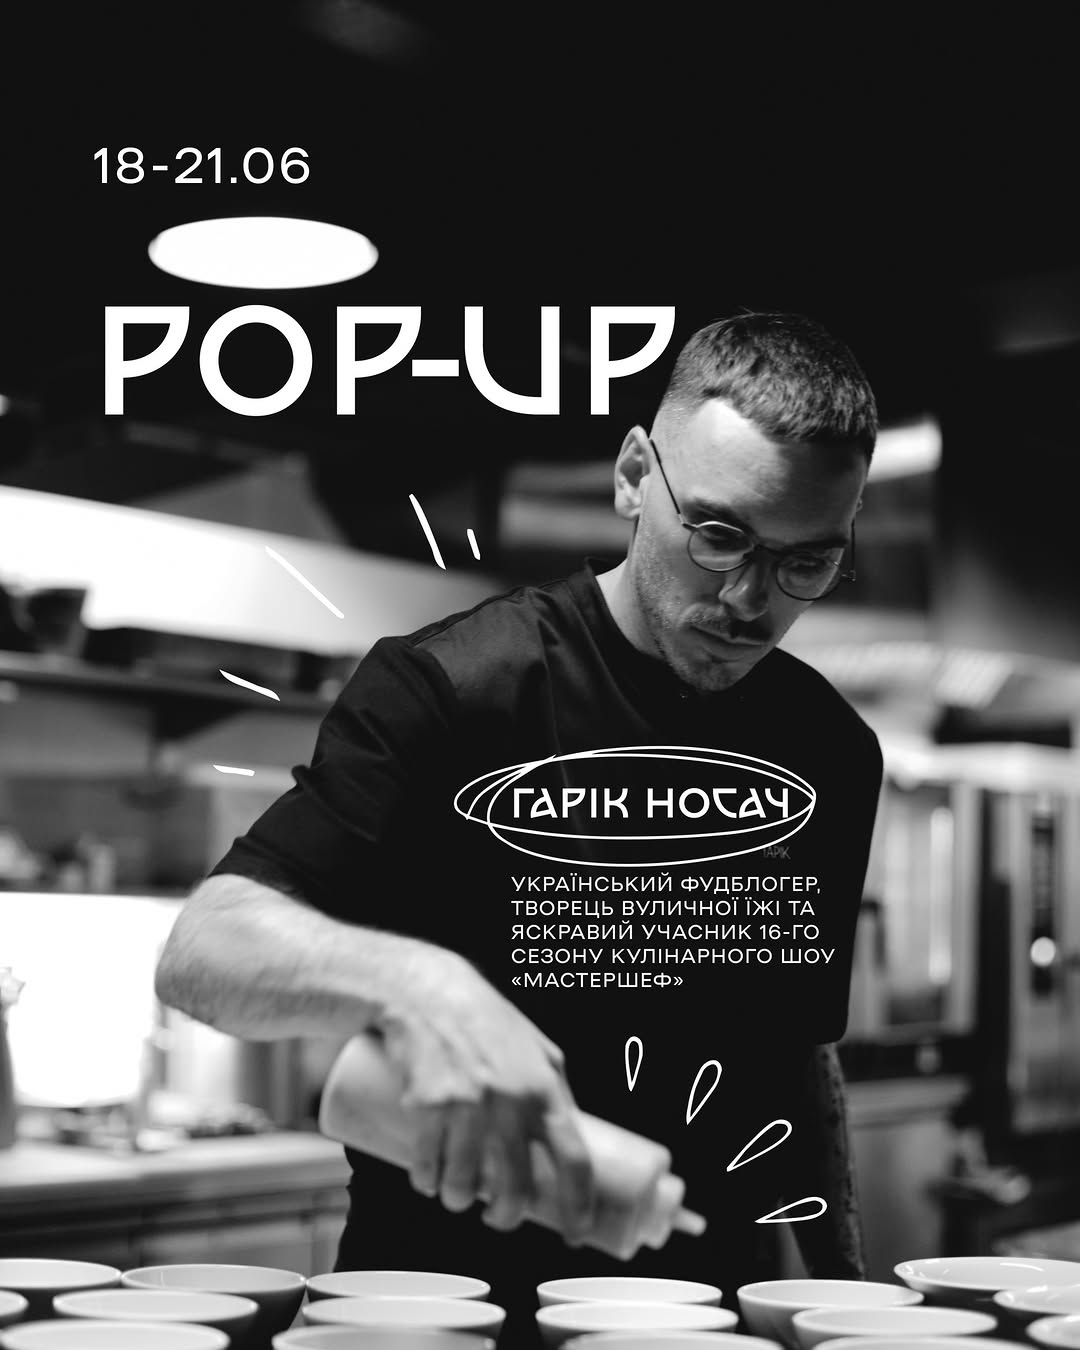
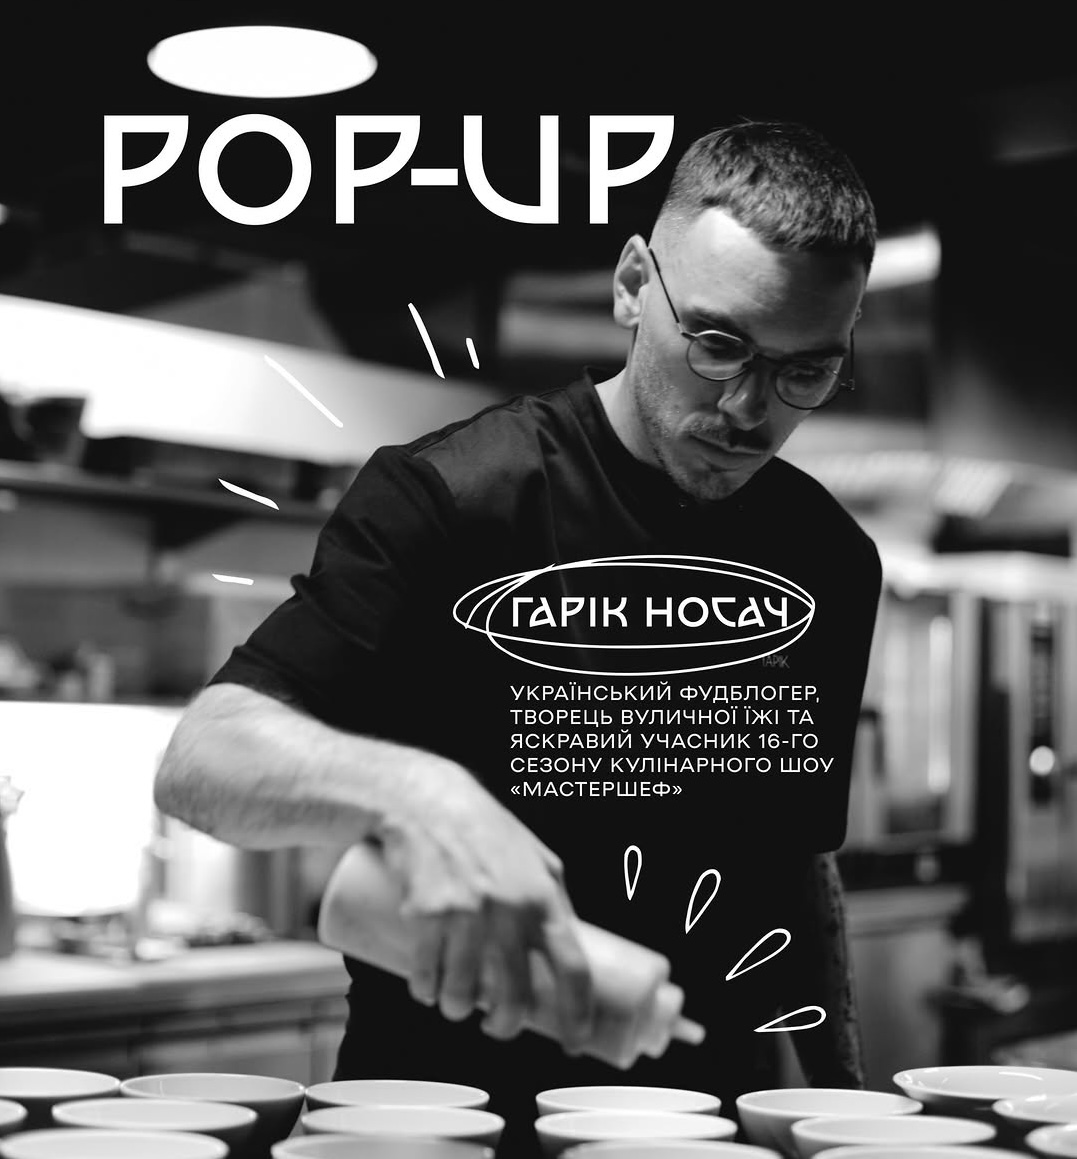
Make hero and pages responsive on mobile
- Stop the sticky header overlapping hero content (hero owns its own spacing)
- Swap in a clean portrait for the mobile hero so the poster's baked-in
  text no longer competes with the headline
- Full-width stacked CTAs, tightened type scale and section padding
- Stack contact rows and footer; add scroll-margin so anchors clear the header

diff --git a/css/style.css b/css/style.css
@@ -104,6 +104,7 @@ a { color: inherit; }
   display: flex;
   align-items: flex-end;
   overflow: hidden;
+  padding: 0; /* spacing lives on .hero .wrap, not the shared section rule */
 }
 
 .hero-bg {
@@ -127,7 +128,7 @@ a { color: inherit; }
 .hero .wrap {
   position: relative;
   z-index: 2;
-  padding-top: 120px;
+  padding-top: 140px;
   padding-bottom: 72px;
 }
 
@@ -184,6 +185,9 @@ a { color: inherit; }
 /* ---------- shared section chrome ---------- */
 
 section { padding: 96px 0; }
+
+/* Anchor targets must clear the sticky header */
+section[id] { scroll-margin-top: 84px; }
 
 .section-head { margin-bottom: 48px; max-width: 720px; }
 
@@ -463,3 +467,95 @@ h2 {
 .site-footer a { opacity: 0.7; }
 .site-footer a:hover { opacity: 1; }
 .site-footer .fine { opacity: 0.45; }
+
+/* ---------- mobile ---------- */
+
+@media (max-width: 720px) {
+  body { font-size: 16px; }
+
+  .wrap { padding: 0 20px; }
+
+  .site-header .wrap { height: 60px; }
+
+  .logo { font-size: 13px; padding: 7px 14px; }
+
+  .site-nav .nav-cta { font-size: 12px; padding: 8px 15px; }
+
+  /* Hero: clear the sticky header, let type carry, keep the photo as texture */
+  .hero {
+    min-height: 0;
+    align-items: stretch;
+  }
+
+  .hero .wrap {
+    padding-top: 108px;
+    padding-bottom: 56px;
+  }
+
+  .hero-bg {
+    object-position: center 12%;
+    opacity: 0.42;
+  }
+
+  .hero::after {
+    background: linear-gradient(180deg, rgba(13,13,12,0.55) 0%, rgba(13,13,12,0.62) 45%, var(--ink) 100%);
+  }
+
+  .kicker { font-size: 11px; letter-spacing: 0.16em; margin-bottom: 14px; }
+
+  .hero h1 { font-size: 42px; margin-bottom: 18px; }
+
+  .hero .tagline { font-size: 16.5px; margin-bottom: 28px; }
+
+  /* Full-width stacked buttons — no ragged edges */
+  .btn-row { flex-direction: column; gap: 12px; }
+
+  .btn { width: 100%; text-align: center; padding: 16px 24px; }
+
+  section { padding: 64px 0; }
+
+  section[id] { scroll-margin-top: 72px; }
+
+  .section-head { margin-bottom: 32px; }
+
+  h2 { font-size: 27px; }
+
+  .section-head p { font-size: 16.5px; }
+
+  .story-grid { gap: 32px; }
+
+  .story-copy .pull { font-size: 17px; padding-left: 16px; margin: 20px 0; }
+
+  .triad { margin-top: 28px; }
+
+  .triad > div { padding: 28px 22px; }
+
+  .service { padding: 28px 22px; }
+
+  .service h3 { font-size: 19px; }
+
+  .gallery-grid { gap: 10px; }
+
+  /* Contact rows: label above value, both left-aligned */
+  .contact-item {
+    flex-direction: column;
+    align-items: flex-start;
+    gap: 6px;
+    padding: 18px 0;
+  }
+
+  .contact-item .value { font-size: 17px; word-break: break-word; }
+
+  .contact-hero { padding: 92px 0 40px; }
+
+  .contact-grid { gap: 40px; padding-bottom: 64px; }
+
+  .site-footer { padding: 32px 0; }
+
+  .site-footer .wrap { flex-direction: column; align-items: flex-start; gap: 10px; }
+}
+
+@media (max-width: 380px) {
+  .hero h1 { font-size: 36px; }
+  .logo { font-size: 12px; letter-spacing: 0.05em; }
+}

diff --git a/index.html b/index.html
@@ -90,9 +90,12 @@
 
   <!-- ===== HERO ===== -->
   <section class="hero">
-    <img class="hero-bg" src="assets/instagram/post-12.jpg"
-         alt="Гарік Носач у чорному кітелі готує на кухні під час pop-up вечері — чорно-біле фірмове фото"
-         fetchpriority="high">
+    <picture>
+      <source media="(max-width: 720px)" srcset="assets/instagram/post-05.jpg">
+      <img class="hero-bg" src="assets/instagram/post-12.jpg"
+           alt="Гарік Носач у чорному кітелі готує на кухні під час pop-up вечері — чорно-біле фірмове фото"
+           fetchpriority="high">
+    </picture>
     <div class="wrap">
       <p class="kicker">Фуд-креатор · Pop-up шеф · Топ-8 МастерШеф 16</p>
       <h1>Гарік Носач</h1>
